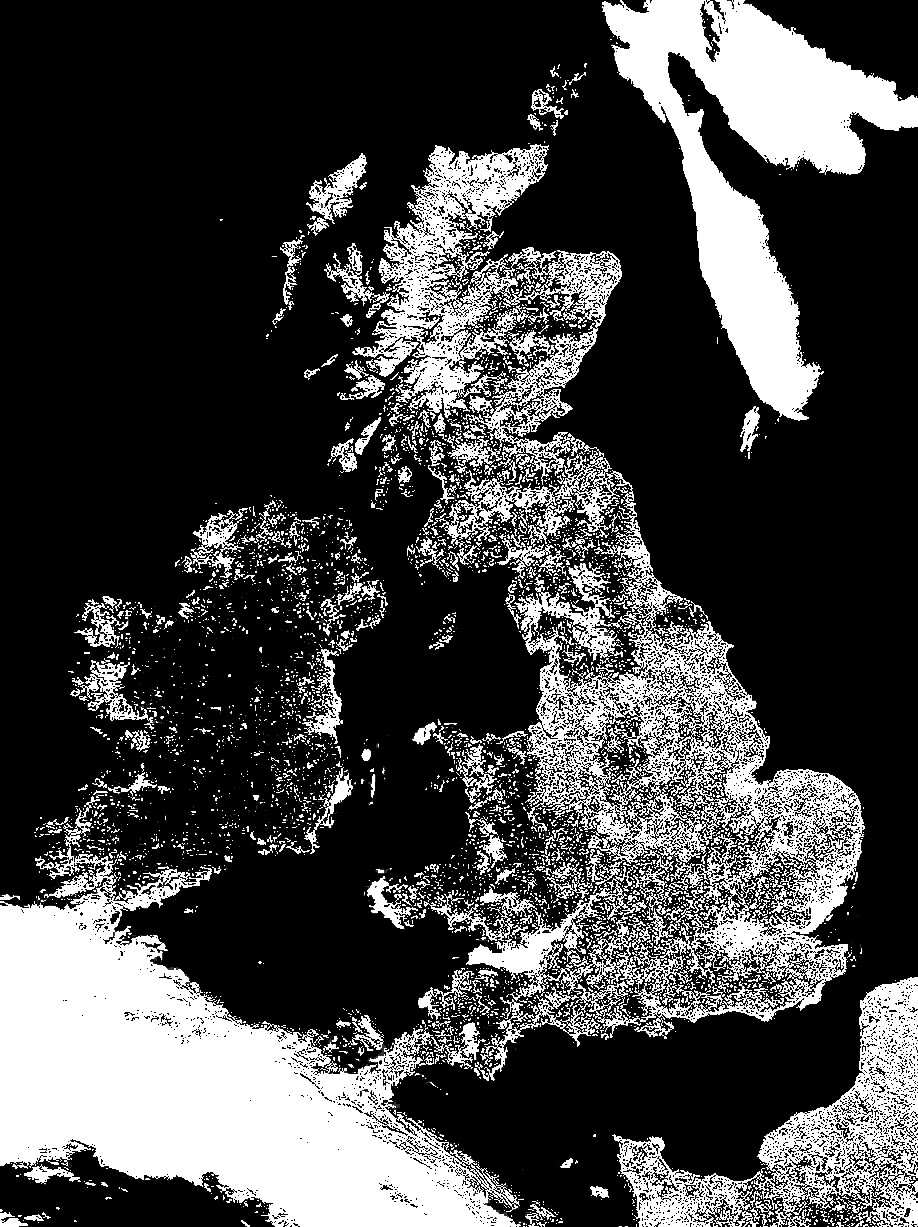
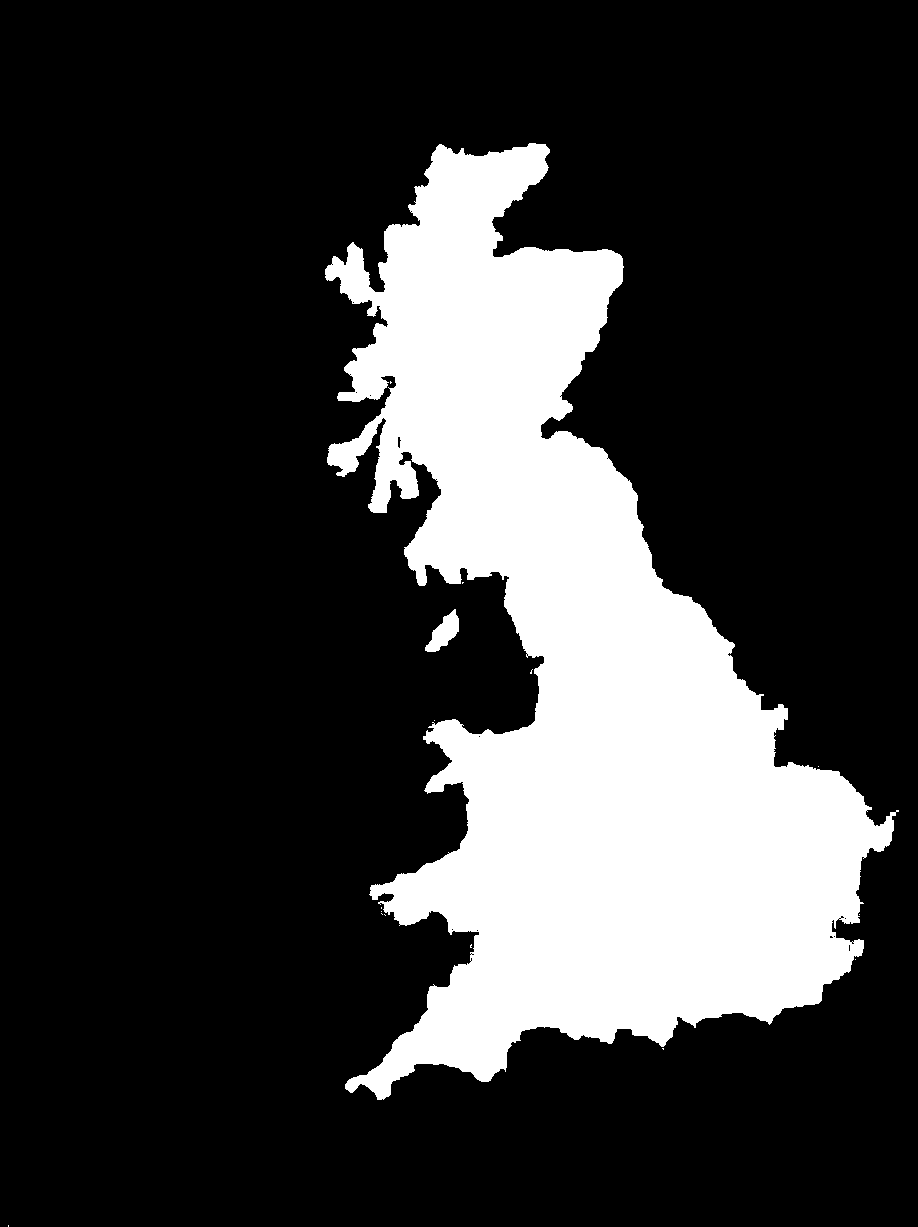
Can now calculate lenge of coastline from an input

diff --git a/MeasureCoast.py b/MeasureCoast.py
@@ -1,0 +1,61 @@
+from PIL import Image, ImageDraw
+import math
+import numpy as np
+mask = Image.open("mask.png")
+
+#The length of our "measuring stick", per the coastline paradox. 
+radius = 30
+startpoint = (353, 353)
+allPoints = [startpoint]
+
+BLACK = (0,0,0, 255)
+WHITE = (255, 255, 255, 255)
+ONE_DEGREE = (2*math.pi) / 360
+MAX_POINTS = 2571
+
+def rotate(point, center, delta_radians) :
+    ROTATION = [[math.cos(delta_radians), -math.sin(delta_radians)], [math.sin(delta_radians), math.cos(delta_radians)]]
+    point_origin = [point[0] - center[0], point[1] - center[1]]
+    point_rotated = np.matmul(point_origin, ROTATION)
+    return (point_rotated[0] + center[0], point_rotated[1] + center[1])
+def toInteger(point):
+    return (math.trunc(point[0]), math.trunc(point[1]))
+savePoints = []
+def isOutOfBounds(point):
+    return point[0] > mask.size[0] or point[1] > mask.size[1]
+currentpoint = (startpoint[0] - radius, startpoint[1])
+# allPoints needs two points in the array for the loop to work properly. 
+initialcolor = mask.getpixel(currentpoint) 
+while mask.getpixel(toInteger(currentpoint)) == initialcolor :
+    currentpoint = rotate(currentpoint, allPoints[len(allPoints)-1], ONE_DEGREE)
+    savePoints.append(currentpoint)
+   
+allPoints.append((currentpoint)) 
+
+while math.dist(currentpoint, startpoint) > radius :  
+    currentpoint = rotate(allPoints[len(allPoints)-2], allPoints[len(allPoints)-1], ONE_DEGREE*180)
+    #We're searching for the edge. Therefore, we're always looking for the OPPOSITE color of the initial point.
+    initialcolor = mask.getpixel(currentpoint) 
+    direction = 1 if initialcolor == BLACK else -1
+    
+    while isOutOfBounds(currentpoint) or mask.getpixel(toInteger(currentpoint)) == initialcolor :
+        currentpoint = rotate(currentpoint, allPoints[len(allPoints)-1], ONE_DEGREE*direction)
+        if not isOutOfBounds(currentpoint):
+            savePoints.append(currentpoint)
+        
+    allPoints.append((currentpoint))
+    if len(allPoints) > MAX_POINTS:
+        break
+    
+
+
+# for i in range(len(savePoints)):
+#     point = toInteger(savePoints[i])
+#     mask.paste((255, 0, 0, 255), (point[0], point[1], point[0] + 1, point[1] + 1))
+
+draw = ImageDraw.Draw(mask)
+draw.polygon(allPoints, None, (255,0,0), 3)
+for i in range(len(allPoints)):
+    point = toInteger(allPoints[i])
+    mask.paste((0, 0, 255, 255), (point[0], point[1], point[0] + 5, point[1] + 5))
+mask.show()

diff --git a/masking/ImageMask.py b/masking/ImageMask.py
@@ -1,11 +1,13 @@
 from PIL import Image
-from PIL import ImageEnhance
+
 
 im = Image.open('greatbritain.webp')
-# Convert to grayscale for easier processing
-im_gr = im.convert("L")
-mask = ImageEnhance.Contrast(im_gr)
-#By converting to greyscale and increasing the contrast an arbitrary amount, we get a 
-# black-and-white image that can serve as a key for determining the coastline of great britain. 
-#Some manual correction is still needed. 
-mask.enhance(3000).save("mask.png")
+#Pixels that are more green than blue become white, otherwise they become black. 
+for x in range(im.size[0]) :
+    for y in range(im.size[1]) :
+        if im.getpixel((x, y))[1] > im.getpixel((x,y))[2] : 
+            im.putpixel((x,y), (255,255,255,255))
+        else :
+            im.putpixel((x,y), (0,0,0,255))
+#This image still needs some manual markup. 
+im.save("mask.png")
